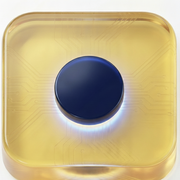
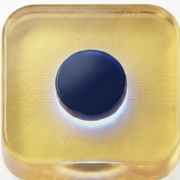
fix: 로고 이미지 교체 + 앵커 여백 정밀화 + 하단 흰여백 축소
- 로고/파비콘 새 브랜드마크 이미지(12.png)로 교체, 골드 사각형 전체 포함 크롭
- scroll-padding-top 90→74px: 앵커 점프 시 섹션 위 흰 여백 노출 제거(헤더 72px에 밀착)
- About 하단패딩 축소(상하 분리) + Footer margin-top var(--ais-section)→clamp:
  주소 카드 제거 후 About-Footer 사이 과한 흰 여백(103px→52px) 해소

diff --git a/src/styles/global.css b/src/styles/global.css
@@ -8,9 +8,10 @@
 
 html {
   scroll-behavior: smooth;
-  /* 고정 헤더(72px) 높이만큼 앵커 점프 위치를 내려, 섹션 상단이 헤더에 가리지 않게 한다.
+  /* 고정 헤더(72px) 높이에 맞춰 앵커 점프 위치를 내린다. 헤더에 가리지 않으면서
+     섹션 위 빈 여백이 노출되지 않도록 헤더 높이에 가깝게(74px) 설정.
      모든 #앵커 이동(서비스 둘러보기·GNB 메뉴·푸터 바로가기)에 일괄 적용. */
-  scroll-padding-top: 90px;
+  scroll-padding-top: 74px;
 }
 
 @media (prefers-reduced-motion: reduce) {

diff --git a/src/sections/About.module.css b/src/sections/About.module.css
@@ -4,7 +4,9 @@
  * 좌: 소개 본문 + 거대 워드마크. 우: 대표/이메일/주소 정보 카드.
  */
 .section {
-  padding-block: var(--ais-section);
+  /* 상단은 섹션 리듬 유지, 하단은 축소 — 주소 카드 제거 후 하단 흰 여백 과다 방지 */
+  padding-top: var(--ais-section);
+  padding-bottom: clamp(2.5rem, 1.5rem + 3vw, 4rem);
   position: relative;
   /* 섹션 리듬: 연회색 틴트 (Technology 흰색 다음에 교차) */
   background: linear-gradient(

diff --git a/src/sections/Footer.module.css b/src/sections/Footer.module.css
@@ -1,6 +1,7 @@
 .footer {
   position: relative;
-  margin-top: var(--ais-section);
+  /* About 하단과의 간격 — 과한 흰 여백 방지(기존 --ais-section은 너무 큼) */
+  margin-top: clamp(1.5rem, 1rem + 2vw, 2.5rem);
   padding-block: clamp(3.5rem, 2.5rem + 4vw, 5.5rem) 1.75rem;
   background: var(--ais-navy);
   border-top: 1px solid rgba(249, 217, 73, 0.18);
